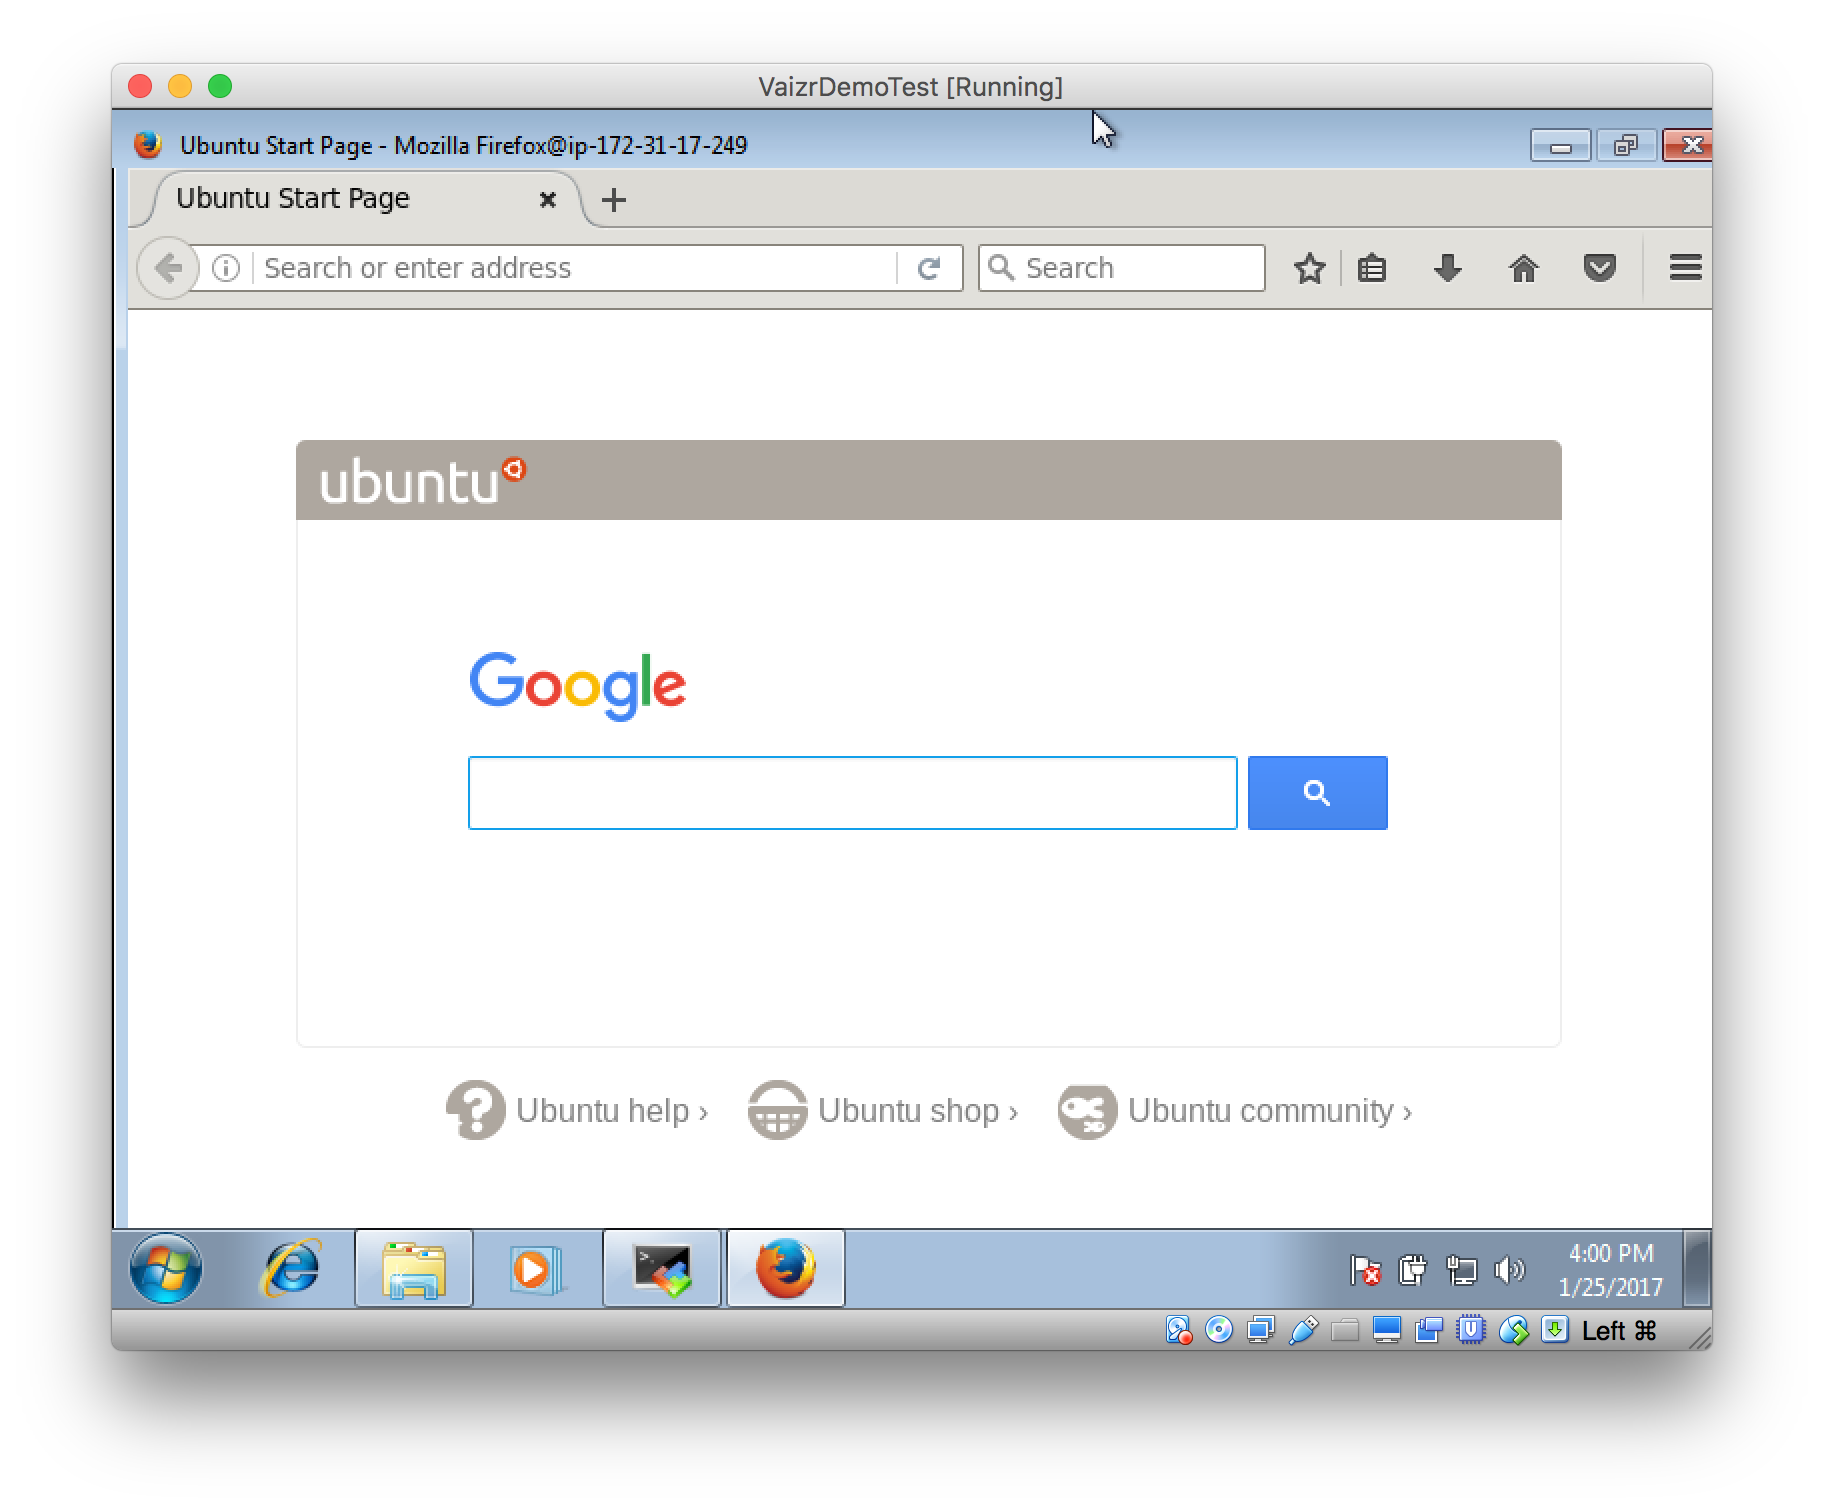
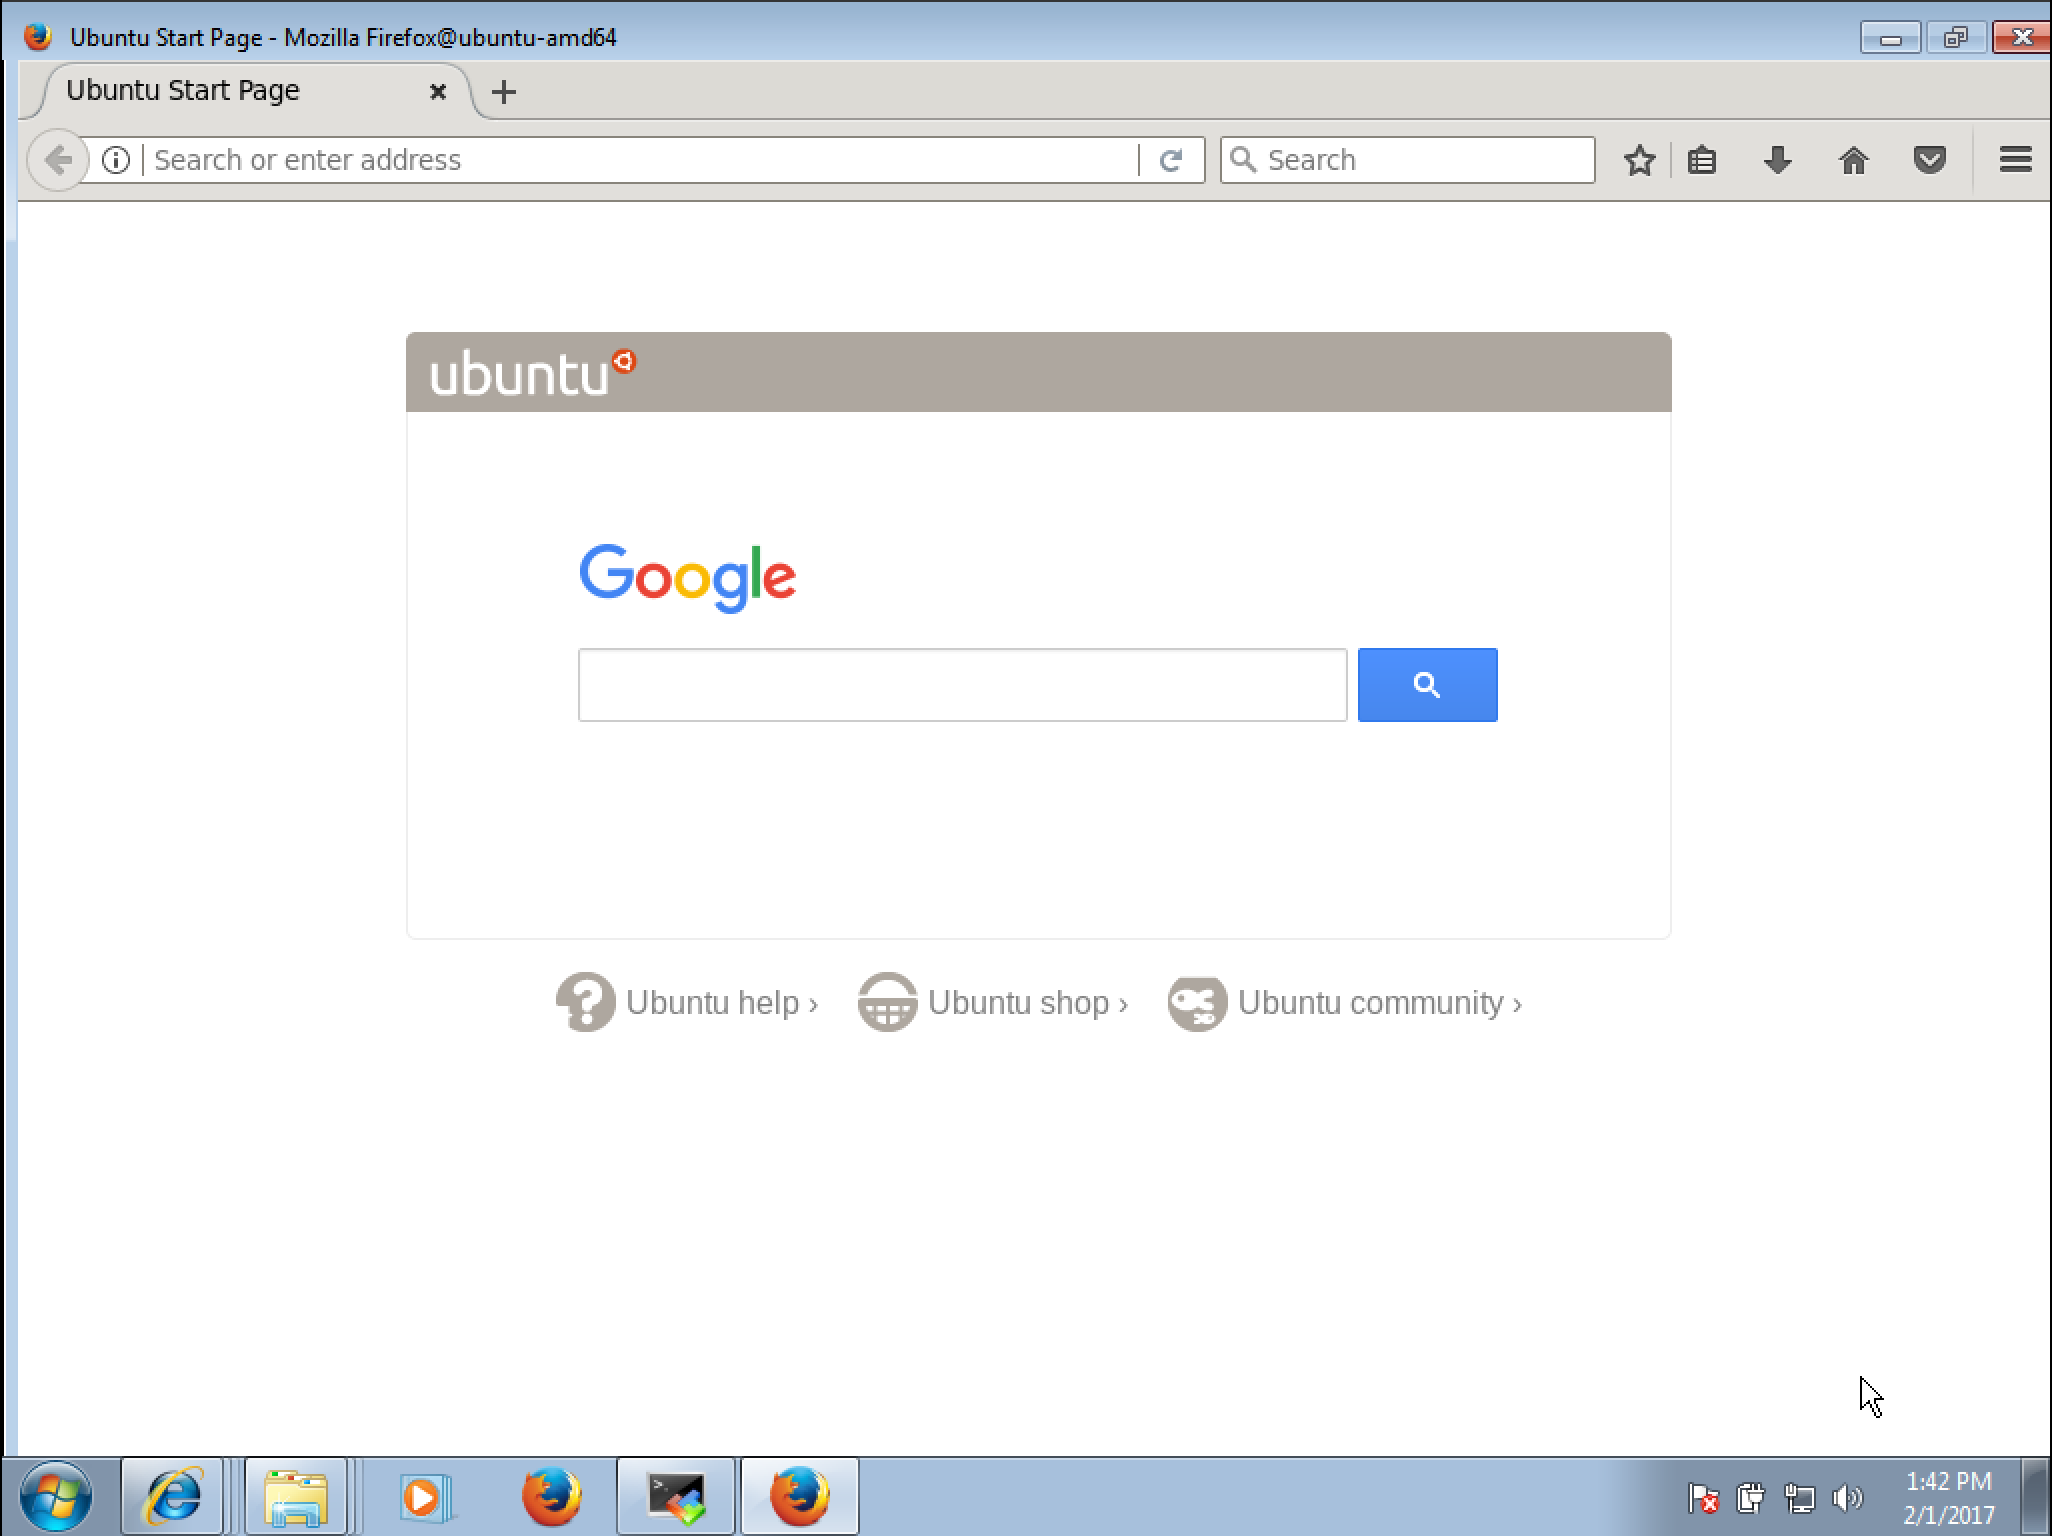
suggestion Jeroen E processed

diff --git a/docs/professionalpowerui/index.md b/docs/professionalpowerui/index.md
@@ -3,7 +3,7 @@
 ## Overview
 Vaizr Professional Power UI is a fast, simple and open low-code platform that's geared towards building enterprise-ready applications fast.
 
-### Host anywhere
+### Vaizrdemobox pre-build Ubuntu 14.04 
 Vaizr builds completely independent war's, which run on any Sevlet Engine.  However Vaizrdemo download comes prepackaged with Tomcat, Apache, PostgreSQL and NetBeans which is installed on Ubuntu 14.04 LTS.
 
 The demo development environment runs completely on the ubuntu box. The GUI of NetBeans and the different browsers like google-chrome and firefox are displayed to you via **X-Windows**. The X-Windows software on your machine is called the **host** or **server**. The X-Windows part on the remote machine, the vaizrdemobox either on VirtualBox or on AWS are called the **guest** or **client**.
@@ -78,8 +78,8 @@ First you can setup a ssh session
 
 If you see something like this below it's ok
 
-        Warning: Permanently added '[127.0.0.1]:2222' (ECDSA) to the list of known hosts.
-        vagrant@127.0.0.1's password:
+        Warning: Permanently added '[127.0.0.1]:2233' (ECDSA) to the list of known hosts.
+        vaizrdemo@127.0.0.1's password:
         Welcome to Ubuntu 14.04.4 LTS (GNU/Linux 3.13.0-83-generic x86_64)
 
          * Documentation:  https://help.ubuntu.com/
@@ -144,7 +144,7 @@ We will do the same for Google-Chrome. Google-Chrome has to be started once to a
 ## Windows
 On windows you need to install an **X-server** and you get proper **ssh** support with it. **Mobatek** has a nice free edition which works well.
 
-### Installing MobaXterm
+### Getting MobaXterm
 - go to <a href="http://mobaxterm.mobatek.net" target="_blank">http://mobaxterm.mobatek.net</a> you will see the following screen.  
 
     ![mobaxterm_website](./../images/mobaxterm_website.png)  
@@ -158,60 +158,51 @@ On windows you need to install an **X-server** and you get proper **ssh** suppor
 
     ![mobaxterm_installer](./../images/mobaxterm_installer.png)
 
-- Choose the `Installer edition`  
+#### MobaXterm Portable Edition
+- Choose the `Portable edition`  
+- Choose the `File save` and `OK` 
 
-    ![mobaxterm_download_installer](./../images/mobaxterm_download_installer.png)
+    ![mobaxterm_download_installer](./../images/mobaxterm_download_portable.png)
 
-- Choose `Save file`  
+- Choose `Extract`
 
-    ![mobaxterm_run_installer](./../images/mobaxterm_run_installer.png)
 
-- Choose `Run`  
+    ![mobaxterm_extract](./../images/mobaxterm_extract.png)
 
-    ![mobaxterm_installer_wizard](./../images/mobaxterm_installer_wizard.png)  
+- Extract to `C:\tools\MobaXterm_v9.4`
 
-- Choose `Next`  
+    ![mobaxterm_extract_destination](./../images/mobaxterm_extract_destination.png)
 
-    ![mobaxterm_accept_licence](./../images/mobaxterm_accept_licence.png)  
+- Double Click on `MobaXterm_Personal_9.4`
 
-- Choose `I accept the terms in the Licence Agreement`  
+    ![mobaxterm_start_execute](./../images/mobaxterm_start_execute.png)
 
-    ![mobaxterm_allow_install](./../images/mobaxterm_allow_install.png)  
+- You see the MobaXterm start screen now.  
 
-- Allow the program to run by clicking `Yes`  
+    ![mobaxterm_startscreen](./../images/mobaxterm_startscreen.png)
 
-    ![mobaxterm_install_completed](./../images/mobaxterm_install_completed.png)    
+- After clicking on `Start a new remote session` and opening the `Advanced SSH settings` you see the session start screen.  
 
-- Click `Finish`  
-- Now the program is installed and you can start it by clicking the Icon on your desktop. 
+    ![mobaxterm_session_screen](./../images/mobaxterm_session_screen.png)
 
-    ![mobaxterm_icon_on_desktop](./../images/mobaxterm_icon_on_desktop.png)  
-
-- You see the following screen now.  
-
-    ![mobaxterm_startscreen](./../images/mobaxterm_startscreen.png)  
-
-- After clicking on `Start a new remote session` you get the follwing screen.  
-
-    ![mobaxterm_session_screen](./../images/mobaxterm_session_screen.png)  
+- You can logon with a password `vaizrdemo` or with a private key, in the latter case follow the steps below. A private key is provided in the **vaizrdemohostscripts.zip** file. 
 
 - Here you can also choose to `Use private key`
 
-- Unzip the **vaizrdemohostscripts.zip** file and the private keys can be found in the `..\cli\pem` folder. Choose for the **l**ocal**v**irtual**m**achine the `lvmvaizrdemobox.pem` file.  
-
-- Create for example a directory C:\tools and unzip **vaizrdemohostscripts.zip** file in here.
-
-- Go back to the MobaXterm screen and fill in the following values:
+- Unzip the **vaizrdemohostscripts.zip** file in `C:\TOOLS` and the private keys can be found in the `..\cli\pem` folder. Choose for the **l**ocal**v**irtual**m**achine the `lvmvaizrdemobox.pem` file.  
+<br>
+- In the MobaXterm remote sessionscreen fill in the following values:
 
        - Remote host `localhost`
-       - `v` Specify username `vagrant`
-       - Port `2222`
+       - `v` Specify username `vaizrdemo`
+       - Port `2233`
        - `v` Use private key `C:\tools\vaizrdemohostscripts\cli\pem\lvmvaizrdemobox.pem`  
 
 - Click the OK button as you can see at the above screenshot
 
 - If you see something like this below it's ok  
 
+    ![mobaxterm_run_session](./../images/mobaxterm_run_session.png)
 
           Welcome to Ubuntu 14.04.4 LTS (GNU/Linux 3.13.0-83-generic x86_64)
 
@@ -235,14 +226,19 @@ On windows you need to install an **X-server** and you get proper **ssh** suppor
 
 
 
-          vagrant@vagrant-ubuntu-trusty-64:~$
+          vaizrdemo@ubuntu-amd64:~$
 
-- Second you can see if X-windows is working properly.
+- Check if X-windows is working properly.
 - Type after the `$` command prompt `firefox` and hit return
 - $`firefox`
 
+    ![mobaxterm_start_firefox](./../images/mobaxterm_start_firefox.png)
 
-    If all goes well you should see the following
+- Ignore the errors which flow over your terminal screen, it's ok as long as you see the firefox screen starting.
+    ![mobaxterm_firefox_with_session](./../images/mobaxterm_firefox_with_session.png)
+
+- The firefox start screen.
+
     ![mobaxterm_firefox](./../images/mobaxterm_firefox.png)
 
 - We will do the same for Google-Chrome. Google-Chrome has to be started once to activate the browser for NetBeans. You activate chrome by accepting the following two options.  

diff --git a/docs/index.md b/docs/index.md
@@ -6,7 +6,7 @@ Vaizr Professional Power UI is a fast, simple and open low-code platform that's 
 Vaizr REST API Platform combines the strength of the pivotal spring REST Api, the pivotal OAuth2 implementation and the the swagger tools. The platform works out of the box.
 
 ### Host anywhere
-Vaizr builds completely independent war's which run on any Sevlet Engine.  However Vaizrdemo download comes prepackaged with Tomcat, Apache, PostgreSQL and NetBeans which is installed on Ubuntu 14.04
+Vaizr builds completely independent war's which run on any Sevlet Engine.
 
 ### Great tools available
 There's a stack of good working tools available for Vaizr. Choose between: Vaizr Professional Power UI and Vaizr API Rest gateway, within those toolsets you have many productivity boosters which make your developer live easy, contraollable and fun.  
